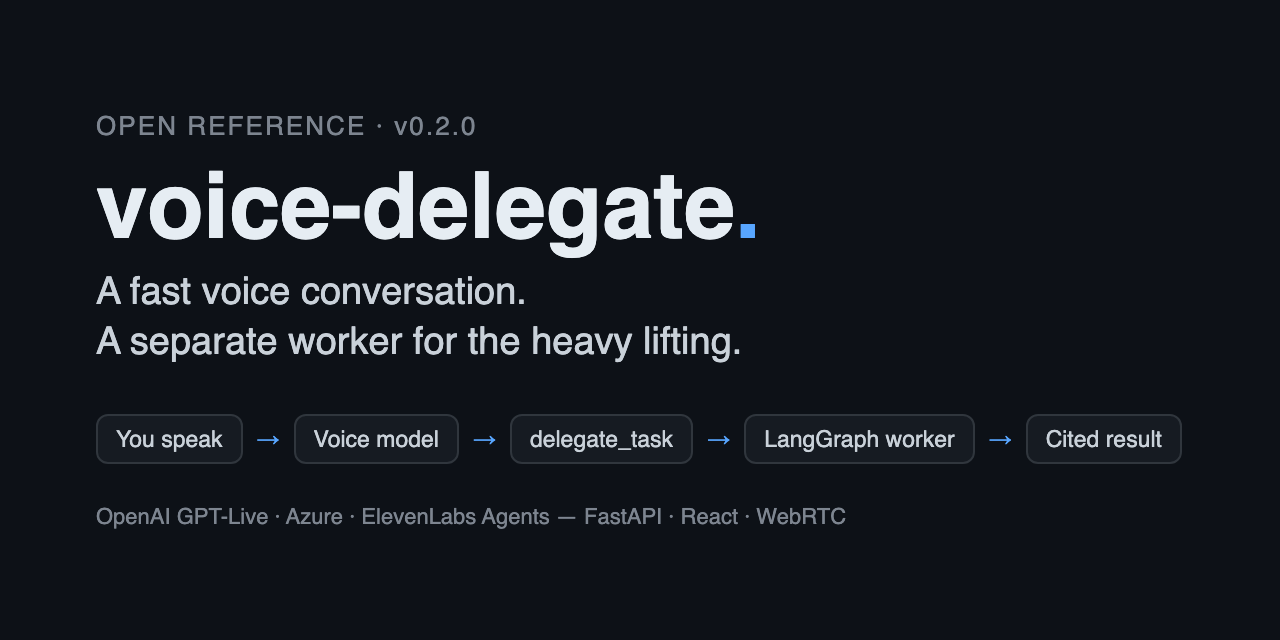
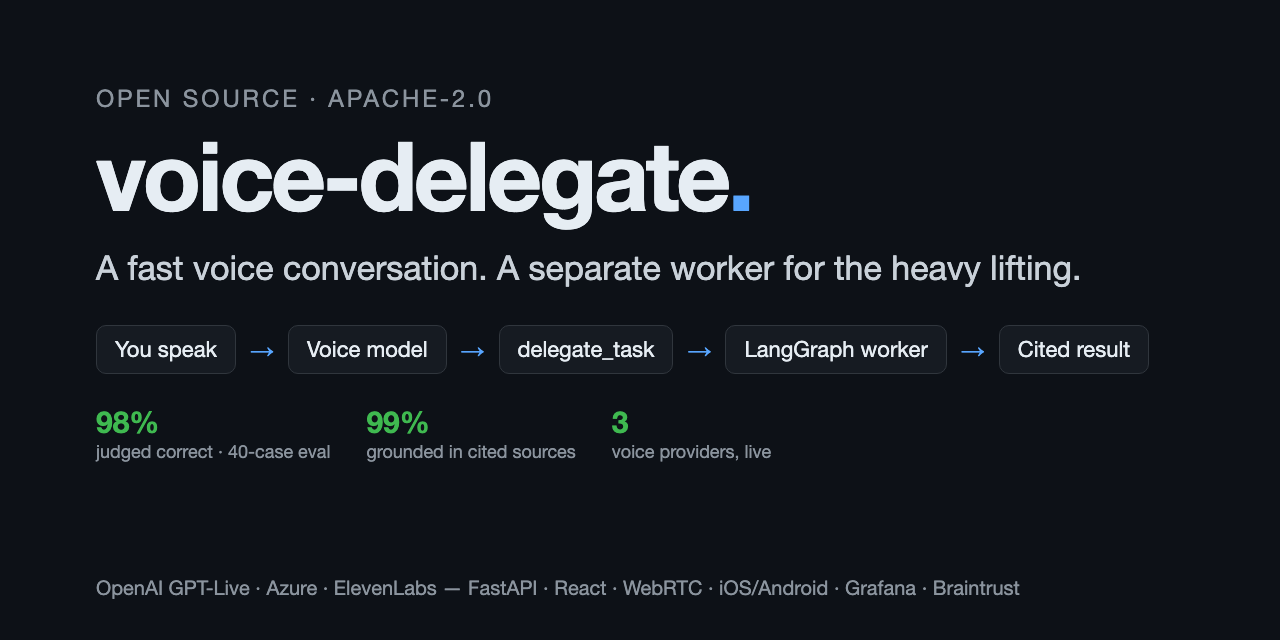
Refresh the social preview: no stale version, eval results and full stack
The old card said v0.2.0. The new one drops the version, shows the eval
results (98% judged correct, 99% grounded) and lists the mobile shells,
Grafana and Braintrust. Its HTML source sits next to it for re-rendering.

diff --git a/docs/images/social-preview.html b/docs/images/social-preview.html
@@ -1,0 +1,36 @@
+<!doctype html>
+<!-- Source of social-preview.png: render at 1280x640 (GitHub Settings, Social preview). -->
+<html><head><meta charset="utf-8"><style>
+  html,body{margin:0;width:1280px;height:640px;background:#0d1117;color:#e6edf3;
+    font-family:-apple-system,"Helvetica Neue",Arial,sans-serif;}
+  .wrap{padding:84px 96px 0}
+  .eyebrow{color:#8b949e;letter-spacing:.12em;font-size:24px;}
+  h1{margin:14px 0 0;font-size:96px;font-weight:800;letter-spacing:-.035em;line-height:1}
+  h1 span{color:#58a6ff}
+  .tag{margin-top:22px;font-size:34px;color:#c9d1d9;line-height:1.35}
+  .flow{display:flex;align-items:center;gap:14px;margin-top:34px}
+  .box{border:1px solid #30363d;background:#161b22;border-radius:10px;padding:10px 18px;font-size:22px}
+  .arrow{color:#58a6ff;font-size:24px}
+  .stats{display:flex;gap:36px;margin-top:30px}
+  .stat b{display:block;font-size:30px;color:#3fb950}
+  .stat{font-size:18px;color:#8b949e}
+  .foot{position:absolute;left:96px;bottom:40px;font-size:20px;color:#8b949e}
+</style></head><body><div class="wrap">
+  <div class="eyebrow">OPEN SOURCE · APACHE-2.0</div>
+  <h1>voice-delegate<span>.</span></h1>
+  <div class="tag">A fast voice conversation. A separate worker for the heavy lifting.</div>
+  <div class="flow">
+    <div class="box">You speak</div><div class="arrow">→</div>
+    <div class="box">Voice model</div><div class="arrow">→</div>
+    <div class="box">delegate_task</div><div class="arrow">→</div>
+    <div class="box">LangGraph worker</div><div class="arrow">→</div>
+    <div class="box">Cited result</div>
+  </div>
+  <div class="stats">
+    <div class="stat"><b>98%</b>judged correct · 40-case eval</div>
+    <div class="stat"><b>99%</b>grounded in cited sources</div>
+    <div class="stat"><b>3</b>voice providers, live</div>
+  </div>
+</div>
+<div class="foot">OpenAI GPT-Live · Azure · ElevenLabs — FastAPI · React · WebRTC · iOS/Android · Grafana · Braintrust</div>
+</body></html>
